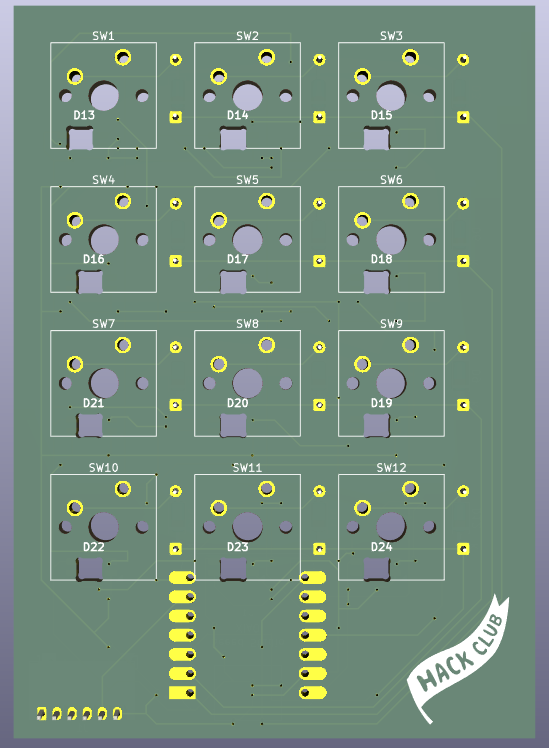
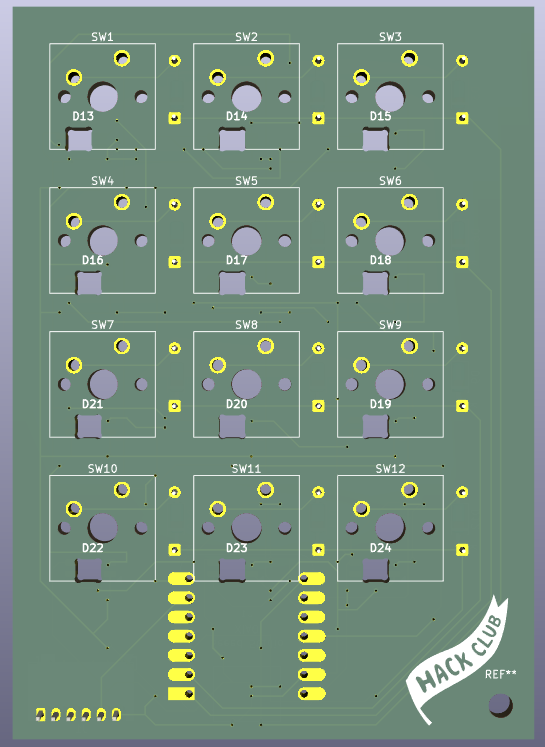
Finished Everything

diff --git a/Firmware/blackvoice/keymaps/default/keymap.c b/Firmware/blackvoice/keymaps/default/keymap.c
@@ -1,0 +1,31 @@
+// Copyright 2023 QMK
+// SPDX-License-Identifier: GPL-2.0-or-later
+
+#include QMK_KEYBOARD_H
+
+// Backlight toggle combo: hold the top-left (A) and bottom-right (L) keys together
+const uint16_t PROGMEM rgb_toggle_combo[] = {KC_A, KC_L, COMBO_END};
+
+combo_t key_combos[] = {
+    COMBO(rgb_toggle_combo, RM_TOGG),
+};
+
+const uint16_t PROGMEM keymaps[][MATRIX_ROWS][MATRIX_COLS] = {
+    /*
+     * ┌───┬───┬───┐
+     * │ A │ B │ C │
+     * ├───┼───┼───┤
+     * │ D │ E │ F │
+     * ├───┼───┼───┤
+     * │ G │ H │ I │
+     * ├───┼───┼───┤
+     * │ J │ K │ L │
+     * └───┴───┴───┘
+     */
+    [0] = LAYOUT_ortho_4x3(
+        KC_A,    KC_B,    KC_C,
+        KC_D,    KC_E,    KC_F,
+        KC_G,    KC_H,    KC_I,
+        KC_J,    KC_K,    KC_L
+    )
+};

diff --git a/Firmware/blackvoice/keymaps/default/config.h b/Firmware/blackvoice/keymaps/default/config.h
@@ -1,0 +1,1 @@
+#define COMBO_COUNT 1

diff --git a/Firmware/blackvoice/readme.md b/Firmware/blackvoice/readme.md
@@ -1,0 +1,27 @@
+# blackvoice
+
+![blackvoice](imgur.com image replace me!)
+
+*A short description of the keyboard/project*
+
+* Keyboard Maintainer: [Freedom-Mawuli Nyadroh](https://github.com/RocketMakr)
+* Hardware Supported: *The PCBs, controllers supported*
+* Hardware Availability: *Links to where you can find this hardware*
+
+Make example for this keyboard (after setting up your build environment):
+
+    make blackvoice:default
+
+Flashing example for this keyboard:
+
+    make blackvoice:default:flash
+
+See the [build environment setup](https://docs.qmk.fm/#/getting_started_build_tools) and the [make instructions](https://docs.qmk.fm/#/getting_started_make_guide) for more information. Brand new to QMK? Start with our [Complete Newbs Guide](https://docs.qmk.fm/#/newbs).
+
+## Bootloader
+
+Enter the bootloader in 3 ways:
+
+* **Bootmagic reset**: Hold down the key at (0,0) in the matrix (usually the top left key or Escape) and plug in the keyboard
+* **Physical reset button**: Briefly press the button on the back of the PCB - some may have pads you must short instead
+* **Keycode in layout**: Press the key mapped to `QK_BOOT` if it is available
